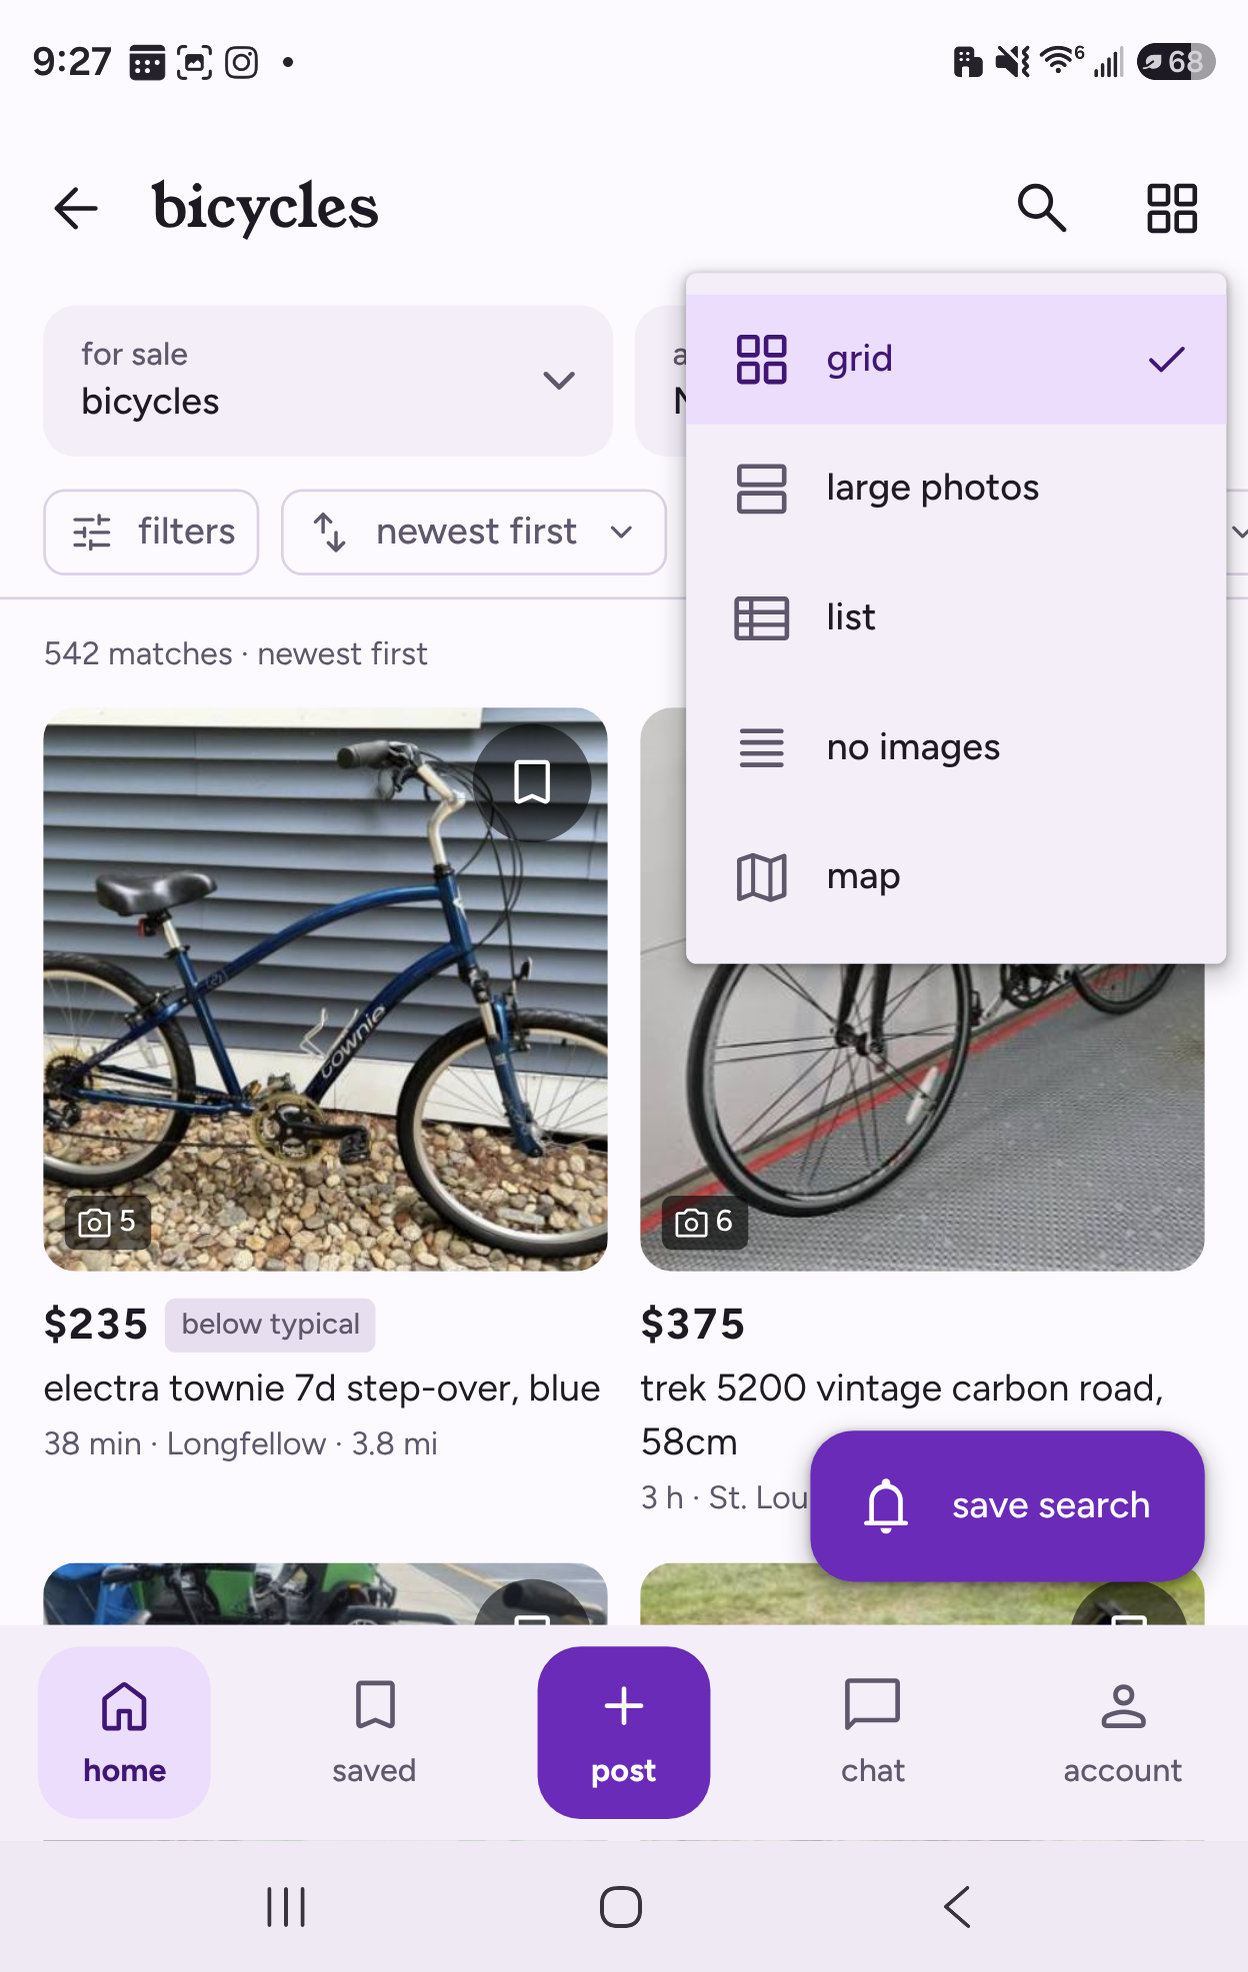
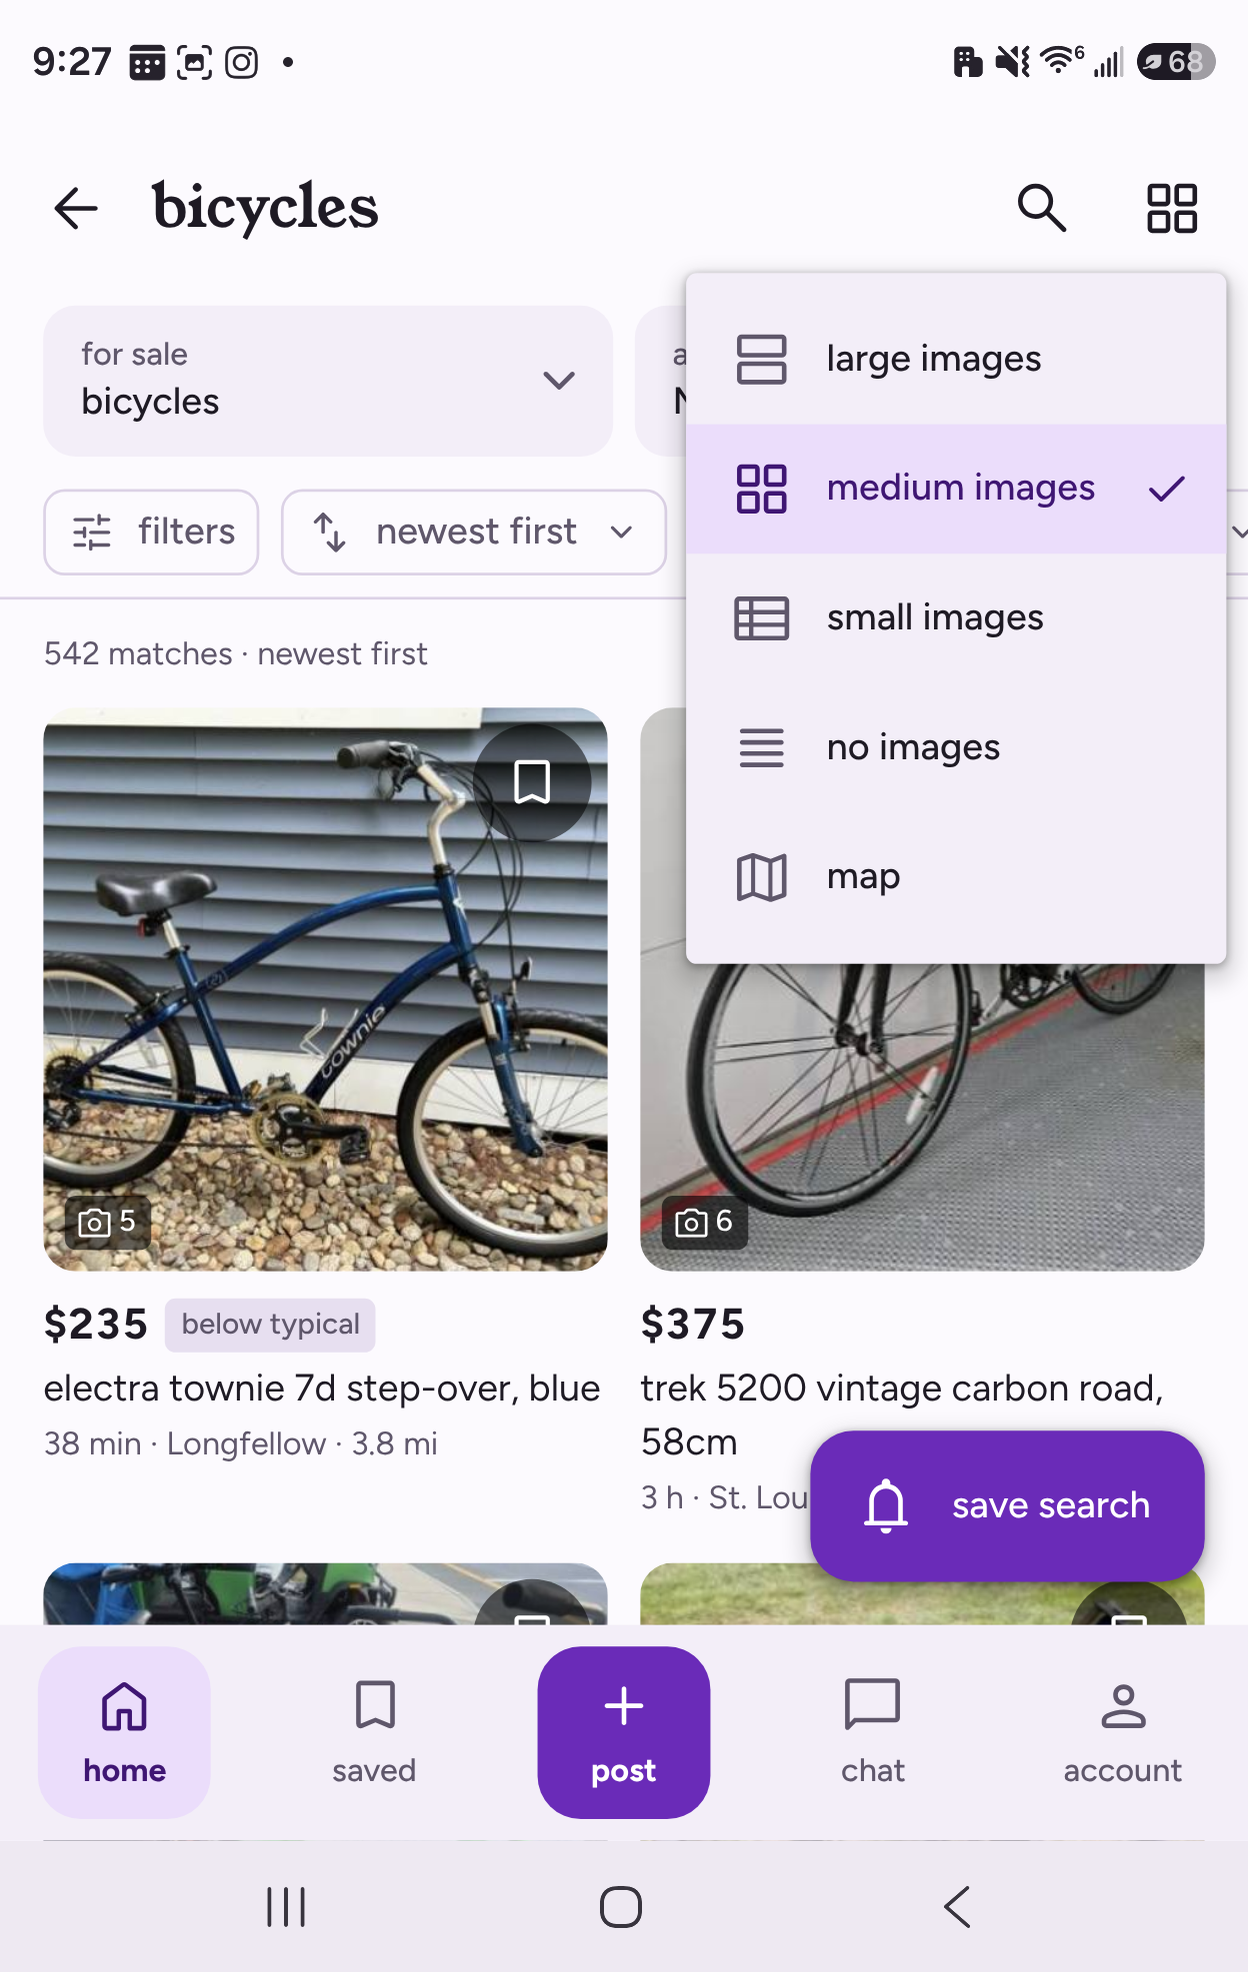
Split save search onto its own slide; list slide shows the view menu
Claude-Session: https://claude.ai/code/session_01H3xU87F2bRsPtLC5hugNNH

Changed region(s): [[0.6562, 0.1547, 0.875, 0.2784], [0.6562, 0.3093, 0.8438, 0.3403], [0.5938, 0.1547, 0.625, 0.2784]]

diff --git a/docs/presentation-outline.md b/docs/presentation-outline.md
@@ -2,7 +2,7 @@
 
 The deck: https://claude.ai/artifact/HfML2PPvNBSg19qWgBHqJh (private until shared from its Share menu).
 
-**Shape:** three parts, 27 slides. Part 1 frames the project: goals, where we are, and the visual refresh as a summary slide, a divider, and four detail slides (we’ll keep one or the other). Part 2 follows one shopper through the four screens up for review today: home, browsing a category, search, and the listing. Part 3 recaps, demos the prototype, takes questions and sets out next steps.
+**Shape:** three parts, 28 slides. Part 1 frames the project: goals, where we are, and the visual refresh as a summary slide, a divider, and four detail slides (we’ll keep one or the other). Part 2 follows one shopper through the four screens up for review today: home, browsing a category, search, and the listing. Part 3 recaps, demos the prototype, takes questions and sets out next steps.
 
 **Walkthrough slides:** today’s screen on the left (from [`audit-screens/`](audit-screens/)), the redesign on the right (from [`presentation-screens/`](presentation-screens/)), and numbered callouts. Each callout is a short grey label over a bold 28px line, and describes a feature you can see in that slide’s screenshots. No claims about how today’s app works beyond what its screenshot shows.
 
@@ -82,12 +82,12 @@ Purple divider. “I live in Longfellow and want a used road bike for under $500
 - Better browsing for browsers / **People who know what they want lean on search**
 
 ### 15. Everything you need is right on the list
-- **Screens:** today [14](audit-screens/14-list-overflow-menu.jpg); redesign `06a-list-bicycles` (under $500 on), `17b-save-search-sheet`
+- **Screens:** today [14](audit-screens/14-list-overflow-menu.jpg); redesign `06a-list-bicycles` (under $500 on), `06c-layout-menu` (the view menu open)
 - Category and area, front and center / **Tweak either without leaving the list**
 - Exposing important filters / **The full set is one tap away in filters**
+- One menu for every view / **Large, medium or small images, no images, or the map**
 - Location and distance on every card / **Know how local it really is**
 - Save on every card / **Top right of the photo, the same spot as on the listing**
-- Prominent save search button / **Makes it easy to come back**
 
 ### 16. The same list, four more ways to see it
 A new layout: four redesign screenshots with the view’s name under each, and no “Today” column. The list slide shows medium images, the default; this one shows the other four views from the view menu.
@@ -97,38 +97,45 @@ A new layout: four redesign screenshots with the view’s name under each, and n
 - **No images**
 - **Map**
 
-### 17. See what a filter does before you apply it
+### 17. Save the search once, come back anytime
+- **Screens:** today [14](audit-screens/14-list-overflow-menu.jpg); redesign `17b-save-search-sheet`, `17d-saved-searches`
+- A summary of what you’re saving / **The name, price and area, right in the sheet**
+- Alerts, your way / **Tell me about new ones, instantly or once a day**
+- Every search in saved / **With how many new listings each one has**
+- Pick up where you left off / **Opening one brings back all of its filters**
+
+### 18. See what a filter does before you apply it
 - **Screens:** today [33](audit-screens/33-filter-sort-bikes-top.jpg); redesign `07b-filters-live-count`, `08b-price-bracket` ($0 to $500)
 - Every filter in one sheet / **Each group laid out as chips you can tap**
 - A live result count / **The button says how many listings you’ll get**
 - Pick a price on the chart / **Drag a range across what bikes actually sell for**
 
-### 18. Search helps before you finish typing
+### 19. Search helps before you finish typing
 - **Screens:** today [36](audit-screens/36-search-typeahead-bike.jpg); redesign `12d-search-typing-bike`, `12e-search-typing-bike-scrolled`
 - Suggestions finish your word / **What you typed stays plain, the rest is bold**
 - Listings right in the suggestions / **Jump straight to a listing, with its photo and price**
 - Search in a category / **Matching categories with counts, most relevant first**
 
-### 19. The essentials sit right at the top
+### 20. The essentials sit right at the top
 - **Screens:** today [24](audit-screens/24-detail-top-gallery.jpg); redesign `14a-detail-top` (the Trek, 2 of 4), `14f-detail-next-saved` (back one to the Townie, saved)
 - A back arrow, not an X / **You’re on a page, and back takes you to the list**
 - Next and previous, kept / **Move between results without the back button**
 - Price and location up front / **A more prominent price, and distance with the location**
 - Save at the top / **The same spot as on the list, so saving several in a row is quick**
 
-### 20. Hide, share and message, all in one bar
+### 21. Hide, share and message, all in one bar
 - **Screens:** today [26](audit-screens/26-detail-map-actions.jpg); redesign `14d-hide-confirm`, `16a-message-seller`
 - A clearer hide icon / **Hiding asks first, and lets you report it too**
 - Share in the middle / **Prominent, so passing a listing along is easy**
 - Message on the right / **The main action, with quick replies to get started**
 
-### 21. The details are easy to browse
+### 22. The details are easy to browse
 - **Screens:** today [25](audit-screens/25-detail-specs.jpg); redesign `14b-detail-specs`, `14e-detail-similar`
 - Description first, details below / **The seller’s own words, then condition, frame size, make and more in a grid**
 - Where, kept / **A map to easily understand where the item is**
 - More to explore / **Similar items, and a small nudge to post your own**
 
-### 22. A measured step toward more trust
+### 23. A measured step toward more trust
 - **Screens:** today [27](audit-screens/27-detail-overflow-sheet.jpg); redesign `15c-far-below-typical`, `15d-seller-report-safety-verified` (both the $50 choppers)
 - New price check / **Helps gauge an offer against typical local prices**
 - More about the seller / **Phone verified, and how many other listings they have**
@@ -140,15 +147,15 @@ A new layout: four redesign screenshots with the view’s name under each, and n
 
 ## Part 3: Recap and discussion
 
-### 23. Part 3 · Recap and discussion: Let’s talk it through
+### 24. Part 3 · Recap and discussion: Let’s talk it through
 Purple divider. “A quick look in the prototype, then your feedback on today’s screens.”
 
-### 24. See it for yourself
+### 25. See it for yourself
 Live demo on the phone, prototype at jonmorris.github.io/Craigslist.
 - **Browse:** home → for sale → bicycles → filters → a listing → message seller
 - **Search:** search “bike” → jump straight to a listing from the suggestions
 
-### 25. Questions?
+### 26. Questions?
 “What feels right, what doesn’t, and what’s missing?” Next to it, what we covered:
 - **Visual refresh:** same purple and peace sign, warmer type, new building blocks
 - **Home and navigation:** search up front, six sections, saved searches, a home worth coming back to
@@ -156,12 +163,12 @@ Live demo on the phone, prototype at jonmorris.github.io/Craigslist.
 - **Search:** suggestions with listings, and the same list plus a keyword
 - **The listing:** essentials at the top, easy details, one action bar, and more trust
 
-### 26. Here’s what happens next
+### 27. Here’s what happens next
 1. **Feedback due:** within a week. Take time to try the prototype on your phone before you send it.
 2. **How to send it:** one combined set. Gather everyone’s notes into a single list, with any conflicting asks settled on your side.
 3. **Next review:** iOS, posting and account. Creating a post, managing saved and created posts, and updates from your feedback.
 
-### 27. Thank you
+### 28. Thank you
 Purple, with the peace sign reversed (purple on white) and “craigslist modern refresh · Android App Redesign”.
 
 ---
